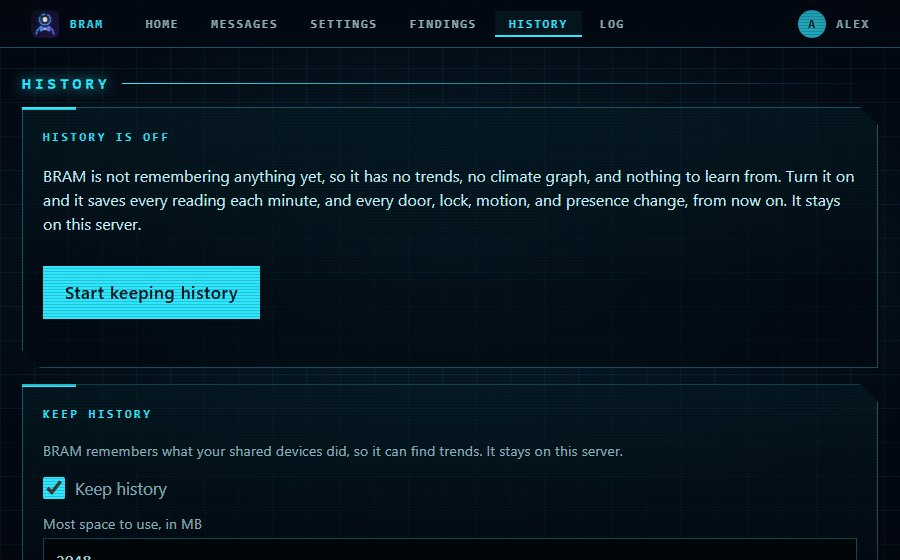
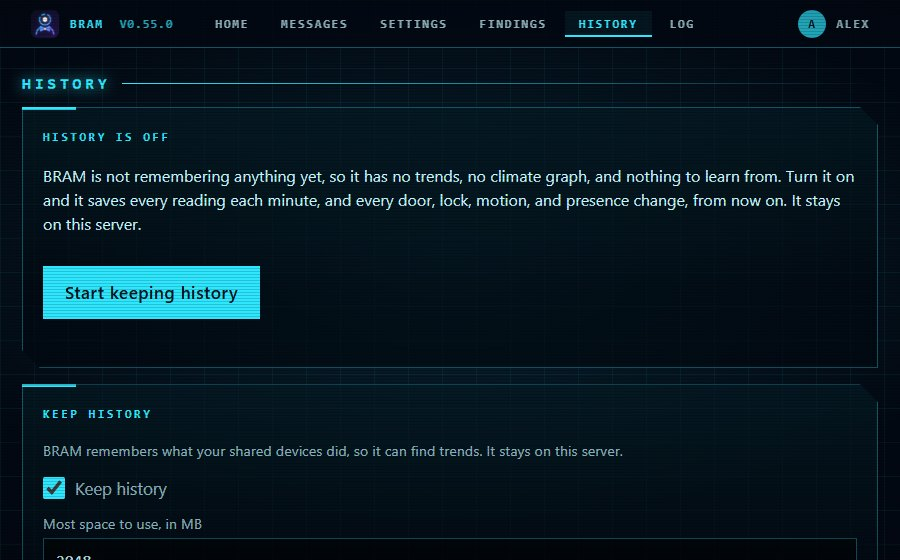
0.55.1: monitors say checking; fresh screenshots; docs say what is built

Changed region(s): [[0.1244, 0.0304, 0.7156, 0.0911], [0.7467, 0.0304, 0.7778, 0.0607]]

diff --git a/server/bram/static/app.js b/server/bram/static/app.js
@@ -1391,7 +1391,8 @@ function showSystems(brain) {
   }
   if (world.monitors.length) {
     const upNow = world.monitors.filter((m) => m.up).length, down = world.monitors.filter((m) => m.up === false);
-    list.push({ name: "Monitors", value: down.length ? `${down[0].name} down` : `${upNow} of ${world.monitors.length} up`, hot: down.length ? "bad" : "" });
+    const checking = world.monitors.some((m) => m.up === null);
+    list.push({ name: "Monitors", value: down.length ? `${down[0].name} down` : checking ? "checking" : `${upNow} of ${world.monitors.length} up`, hot: down.length ? "bad" : "" });
   }
   const router = world.router;
   if (router?.url) list.push({ name: "Router", value: router.connected ? `${router.devices} devices` : "not answering", hot: router.connected ? (router.update ? "warn" : "") : "bad" });

diff --git a/README.md b/README.md
@@ -92,10 +92,10 @@ BRAM has two halves. HACS installs the integration; the server runs in Docker.
 | | Works today | Planned |
 |---|---|---|
 | **Watch and tell** | Safety alerts, silent sensors, locks, doors, windows, motion while away, temperature and humidity, phone messages with buttons, quiet hours, daily summary, Telegram, ntfy, monitors | Severity for every finding, safety acknowledge from BRAM's page |
-| **Find problems** | Home Assistant health, 3D printers, the security check | Power and energy, network devices, poor air, appliances left on |
-| **Remember** | Findings with their stories, history and trends, heating and cooling runs, prints; memory of what you ask it to remember, and your conversation, if you turn it on | Preferences and corrections it notices |
-| **Learn** | Suggested night hours and left-open time, approved on a review page | Usual routines, suggested rules and automations |
-| **Talk** | Chat on its page, in Assist, and in Telegram; voice; personalities; blueprints | Other model providers, speakers in rooms |
+| **Find problems** | Home Assistant health, 3D printers, the security check with new devices on every network and VLAN | Power and energy, poor air |
+| **Remember** | Findings with their stories, history and trends, heating and cooling runs, prints; memory of what you ask it to remember, for each person, and your conversation, if you turn it on | Search by meaning |
+| **Learn** | Suggested night hours and left-open time, nightly checks for what is often left open, things left on while away, fewer messages about what you keep hiding; all approved on a review page | Usual routines, automations it drafts |
+| **Talk** | Chat on its page, in Assist, and in Telegram; voice; personalities; blueprints; your own model or a cloud one | Speakers in rooms |
 | **Explain** | | Likely causes and what to do |
 | **Control and fix** | Nothing. BRAM cannot control anything | Lights, one-tap repairs, then locks with your approval |
 | **Cameras and people** | Frigate events, camera messages with pictures, zones and doors for each camera, descriptions from your own model, asking a camera in chat, a dashboard card | The right message to the right person, faces |

diff --git a/docs/settings.md b/docs/settings.md
@@ -111,15 +111,15 @@ How to configure each part, and what each uses. For a plain list, see [Every set
 | Job | Provider | Default | Purpose | Status |
 |---|---|---|---|---|
 | Chat | Ollama | None; you choose | Answers on the page, Assist, and Telegram | Built |
-| Chat | OpenAI-compatible, OpenAI, Anthropic, Gemini | | Same | Planned, off by default |
+| Chat | OpenAI, Anthropic, Google Gemini, or another OpenAI-compatible service | Off | Same, for anyone without their own model | Built; off until you choose one |
 | Alerts | None | Fixed text | Leak, smoke, locks, doors, monitors, summary | Built; never uses a model |
 | History and problems | None | Code | Looks up and measures; chat words the answer | Built |
 | Hearing | Whisper (Wyoming) | `base-int8`, English | Hold to talk, Telegram voice notes | Built |
 | Speaking | Piper (Wyoming) | `en_US-lessac-medium` | Spoken answers | Built |
-| Vision | Ollama model with vision | Same as chat | Describe Frigate events | Planned |
-| Memory search | Ollama embedding model | None | Find memories by meaning | Planned; keyword search without it |
+| Vision | The chat model, if it reads pictures | Off for each camera | Describe camera events, answer questions about a camera | Built; cloud models need their own picture switch |
+| Memory search | Ollama embedding model | None | Find memories by meaning | Planned; keyword search today |
 | Summaries of long chats | Same as chat | | Keep long chats short | Planned |
-| Learning | None | Code | [Suggested night hours and left-open time](watching.md#learning) | Built; never uses a model. Patterns and suggested rules are planned |
+| Learning | None | Code | [Suggested night hours, left-open time, nightly checks, and things left on while away](watching.md#learning) | Built; never uses a model |
 | Backup model | Another local Ollama model | None | When the first fails | Planned |
 
 #### Models tried

diff --git a/docs/cameras.md b/docs/cameras.md
@@ -68,7 +68,7 @@ Frigate sees everything in the picture, so a person in the neighbors' driveway i
 
 ## The message
 
-The camera, who Frigate recognized, what is true in the rest of the home, and the zones, such as "Someone at front door, and it's night. In porch." With the [Frigate integration](https://docs.frigate.video/integrations/home-assistant) installed in Home Assistant, it shows Frigate's picture of the event: its snapshot, or its smaller thumbnail when snapshots are off for that camera in Frigate. Turn snapshots on in Frigate for a better picture. Tap it to open the finding on BRAM's page. Coming: your model's description, such as "A delivery driver left a box on the porch."
+The camera, who Frigate recognized, what is true in the rest of the home, and the zones, such as "Someone at front door, and it's night. In porch." With the [Frigate integration](https://docs.frigate.video/integrations/home-assistant) installed in Home Assistant, it shows Frigate's picture of the event: its snapshot, or its smaller thumbnail when snapshots are off for that camera in Frigate. Turn snapshots on in Frigate for a better picture. Tap it to open the finding on BRAM's page. With **Describe** on, your model's words are added when they are ready in time, such as "A delivery driver left a box on the porch."
 
 ## Teach BRAM a camera
 

diff --git a/CHANGELOG.md b/CHANGELOG.md
@@ -2,6 +2,12 @@
 
 ## Unreleased
 
+## 0.55.1
+
+Update the BRAM Server (pull the new image).
+
+- Monitors around the brain say "checking" until the first look, instead of "0 of 1 up".
+- Docs: new screenshots of Home, Findings, and History; the README status and the model table say what is built now.
 - Docs: about 30 pages merged into 8, each with what is on it at the top: Installing, Using BRAM, What BRAM tells you, Cameras, Chat and voice, Settings, How BRAM works, and the Plan. Nothing was removed; old links point to the right section.
 
 ## 0.55.0
